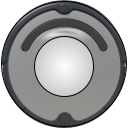
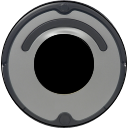
turtle and nitro jazz

Changed region(s): [[0.25, 0.25, 0.75, 0.7812]]

diff --git a/spaceInvaders/Player.cpp b/spaceInvaders/Player.cpp
@@ -50,10 +50,13 @@ player::player(int _player)
 	m_abilityTimer = 0.0f;
 
 	m_NitroResource = 100.0f;
-	m_nitroBar = new uiImage(sf::Vector2f(0, 0), "Assets/ResourceBar.png", true);
+	m_nitroBar = new uiImage(sf::Vector2f(0, 0), "Assets/Players/ResourceBar.png", true);
+	m_nitroBar->GetSprite()->setScale(sf::Vector2f(0.25f, -0.25f));
 	m_bNitroEnabled = true;
 	m_bPrevNitroState = false;
 
+	m_turtleVFX = new uiImage(sf::Vector2f(0, 0), "Assets/Players/TurtleEffect.png", true);
+	m_turtleVFX->GetSprite()->setScale(sf::Vector2f(0.6f, 0.6f));
 
 	sf::Vector2f offset(25.0f, 50.0f);
 
@@ -62,30 +65,37 @@ player::player(int _player)
 	{
 	case 0:
 		m_playerColor = sf::Color::Red;
-		m_nitroBar->GetSprite()->setScale(sf::Vector2f(0.5f, 0.3f));
-		m_nitroBar->transform.m_Position = sf::Vector2f(offset.x, offset.y);
+		m_barColor = sf::Color::Red;
+		//m_nitroBar->GetSprite()->setScale(sf::Vector2f(0.5f, 0.3f));
+		//m_nitroBar->transform.m_Position = sf::Vector2f(offset.x, offset.y);
 		break;
 	case 1:
 		m_playerColor = sf::Color::Cyan;
-		m_nitroBar->GetSprite()->setScale(sf::Vector2f(-0.5f, 0.3f));
-		m_nitroBar->transform.m_Position = sf::Vector2f(1920 - offset.x, offset.y);
+		m_barColor = sf::Color::Cyan;
+		//m_nitroBar->GetSprite()->setScale(sf::Vector2f(-0.5f, 0.3f));
+		//m_nitroBar->transform.m_Position = sf::Vector2f(1920 - offset.x, offset.y);
 		break;
 	case 2:
 		m_playerColor = sf::Color::Green;
-		m_nitroBar->GetSprite()->setScale(sf::Vector2f(0.5f, 0.3f));
-		m_nitroBar->transform.m_Position = sf::Vector2f(offset.x, 1080 - offset.y);
+		m_barColor = sf::Color::Green;
+		//m_nitroBar->GetSprite()->setScale(sf::Vector2f(0.5f, 0.3f));
+		//m_nitroBar->transform.m_Position = sf::Vector2f(offset.x, 1080 - offset.y);
 		break;
 	case 3:
 		m_playerColor = sf::Color::Yellow;
-		m_nitroBar->GetSprite()->setScale(sf::Vector2f(-0.5f, 0.3f));
-		m_nitroBar->transform.m_Position = sf::Vector2f(1920 - offset.x, 1080 - offset.y);
+		m_barColor = sf::Color::Yellow;
+		//m_nitroBar->GetSprite()->setScale(sf::Vector2f(-0.5f, 0.3f));
+		//m_nitroBar->transform.m_Position = sf::Vector2f(1920 - offset.x, 1080 - offset.y);
 		break;
 	default:
 		break;
 	}
+	m_turtleColor = m_playerColor;
+	m_turtleColor.a = 128.0f;
 
 	GetSprite()->setColor(m_playerColor);
-	m_nitroBar->GetSprite()->setColor(m_playerColor);
+	m_nitroBar->GetSprite()->setColor(m_barColor);
+	m_turtleVFX->GetSprite()->setColor(m_turtleColor);
 
 	// Leaking battery variables
 	m_bExphit = false;
@@ -140,6 +150,12 @@ player::~player()
 		delete m_nitroBar;
 		m_nitroBar = 0;
 	}
+	if (m_turtleVFX != nullptr)
+	{
+		delete m_turtleVFX;
+		m_turtleVFX = 0;
+	}
+	
 }
 
 
@@ -209,13 +225,13 @@ void player::Update(float _dT)
 	{
 		m_NitroResource = 100;
 		m_bNitroEnabled = true;
-		m_nitroBar->GetSprite()->setColor(m_playerColor);
+		m_nitroBar->GetSprite()->setColor(m_barColor);
 	}
 	if (m_NitroResource < 5) // If nitro is too low
 	{
 		m_bNitroEnabled = false;
 		
-		m_nitroBar->GetSprite()->setColor(sf::Color(m_playerColor.r / 2.0f,
+		m_nitroBar->GetSprite()->setColor(sf::Color(m_barColor.r / 2.0f,
 			m_playerColor.g / 2.0f,
 			m_playerColor.b / 2.0f));
 	}
@@ -232,12 +248,6 @@ void player::Update(float _dT)
 			m_bPrevNitroState = false;
 			audioManager::GetInstance().PlaySound("NitroEnd");
 		}
-	}
-
-	if (m_nitroBar != nullptr)
-	{
-		m_nitroBar->Update(_dT);
-		m_nitroBar->SetPercentageDrawn(m_NitroResource);
 	}
 
 	if (Magnitude(m_externVel) < 0.01f)
@@ -380,7 +390,20 @@ void player::Update(float _dT)
 	//Update sprite position
 	GetSprite()->setPosition(transform.m_Position);
 	m_circleIndicator.setPosition(transform.m_Position);
-//	transform.m_Velocity = sf::Vector2f(0.0f, 0.0f);
+
+	// Update resource bar visuals.
+	m_nitroBar->transform.m_Position = GetSprite()->getPosition();
+
+	// Update VFX visuals.
+	m_turtleVFX->transform.m_Position = GetSprite()->getPosition();
+	m_turtleVFX->GetSprite()->setRotation(m_turtleVFX->GetSprite()->getRotation() + _dT * 20.0f);
+	m_turtleVFX->Update(_dT);
+
+	if (m_nitroBar != nullptr)
+	{
+		m_nitroBar->Update(_dT);
+		m_nitroBar->SetPercentageDrawn(m_NitroResource);
+	}
 
 	if (m_DeathTimer != nullptr)
 	{
@@ -677,6 +700,14 @@ void player::DrawCircleIndicator(sf::RenderWindow& _window)
 	}
 }
 
+void player::DrawVFX(sf::RenderWindow& _window)
+{
+	if (m_ability == battery::eAbility::turtle)
+	{
+		m_turtleVFX->Draw(_window);
+	}
+}
+
 /***********************
 * DrawNitroResource: Draw nitro resource bar.
 * @author: William de Beer
@@ -684,6 +715,6 @@ void player::DrawCircleIndicator(sf::RenderWindow& _window)
 ********************/
 void player::DrawNitroResource(sf::RenderWindow& _window)
 {
-	if (m_nitroBar != nullptr)
+	if (m_nitroBar != nullptr && !m_bWillDie && !m_bExphit)
 		m_nitroBar->Draw(_window);
 }

diff --git a/spaceInvaders/uiImage.cpp b/spaceInvaders/uiImage.cpp
@@ -29,10 +29,10 @@ uiImage::uiImage(sf::Vector2f _pos, std::string _texLoc, bool _isBar)
 
 	// Configure sprite
 	GetSprite()->setTexture(*GetTexture());
-	if (!m_bIsBar)
+	//if (!m_bIsBar)
 		GetSprite()->setOrigin((sf::Vector2f)GetTexture()->getSize() / 2.0f);
-	else
-		GetSprite()->setOrigin(0.0f, (float)GetTexture()->getSize().y / 2.0f);
+	/*else
+		GetSprite()->setOrigin(0.0f, (float)GetTexture()->getSize().y / 2.0f);*/
 
 	transform.m_Mass = 0.0f;
 	transform.m_Force = sf::Vector2f(0.0f, 0.0f);
@@ -78,8 +78,8 @@ void uiImage::SetPercentageDrawn(float _percentage)
 
 	int left = 0;
 	int top = 0;
-	int width = (int)(xSize * _percentage / 100.0f);
-	int height = (int)(ySize);
+	int width = (int)(xSize);
+	int height = (int)(ySize * _percentage / 100.0f);
 
 	GetSprite()->setTextureRect(sf::IntRect(
 		left,

diff --git a/spaceInvaders/Player.h b/spaceInvaders/Player.h
@@ -47,6 +47,7 @@ public:
 	void DelayedDeathUpdate();
 	bool GetWillDie() { return m_bWillDie; };
 	void DrawCircleIndicator(sf::RenderWindow& _window);
+	void DrawVFX(sf::RenderWindow& _window);
 	void DrawNitroResource(sf::RenderWindow& _window);
 
 	int GetIndex() { return m_iPlayerIndex; };
@@ -90,6 +91,8 @@ private:
 	bool m_bPrevNitroState;
 
 	sf::Color m_playerColor;
+	sf::Color m_barColor;
+	sf::Color m_turtleColor;
 
 	// Leaking battery variables
 	bool m_bExphit; // Explosion hit player.
@@ -99,6 +102,9 @@ private:
 	float m_fExpRange = 200.0f;
 	timer* m_DeathTimer;
 	sf::CircleShape m_circleIndicator;
+
+	// Turtle battery
+	uiImage* m_turtleVFX;
 };
 
 #endif

diff --git a/spaceInvaders/gameScene.cpp b/spaceInvaders/gameScene.cpp
@@ -328,6 +328,18 @@ void gameScene::DrawObjects(sf::RenderWindow& _window)
 		p_it->Draw(_window);
 		
 	}
+	
+	// Draw VFX
+	for (auto p_it : *m_vPlayers)
+	{
+		p_it->DrawVFX(_window);
+	}
+
+	// Draw resource bars
+	for (auto p_it : *m_vPlayers)
+	{
+		p_it->DrawNitroResource(_window);
+	}
 
 	for (auto b_it : *m_vBatteries)
 	{
@@ -346,11 +358,6 @@ void gameScene::DrawUI(sf::RenderWindow& _window)
 {
 	scoreManager::GetInstance().DrawUI(_window);
 
-	// Draw resource bars
-	for (auto p_it : *m_vPlayers)
-	{
-		p_it->DrawNitroResource(_window);
-	}
 }
 
 /***********************
